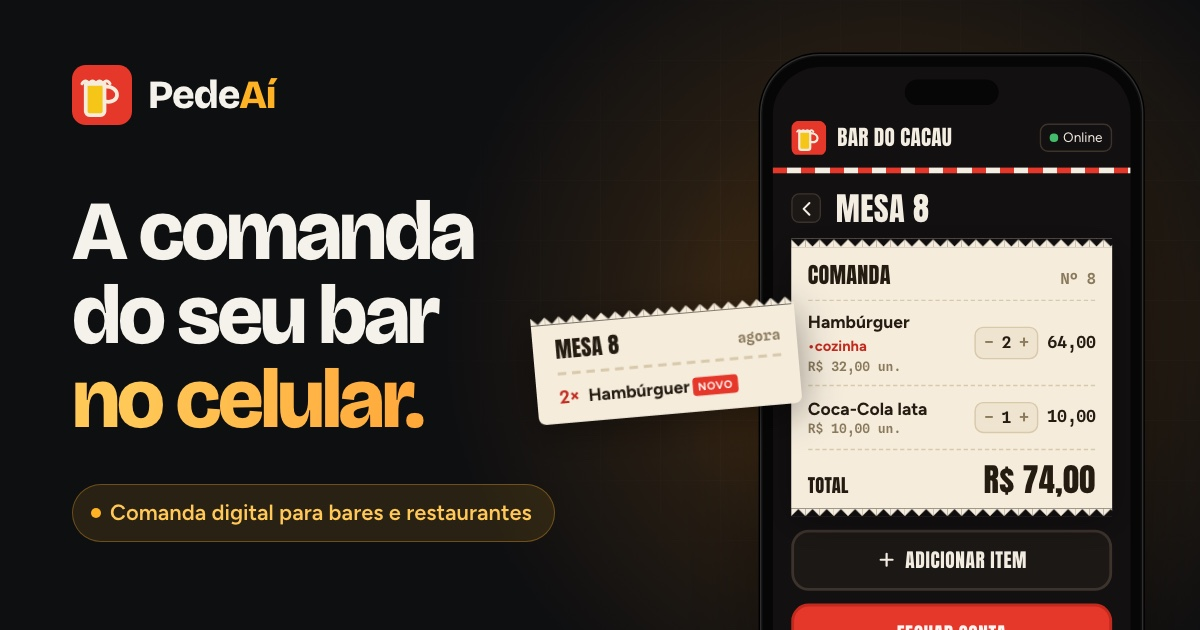
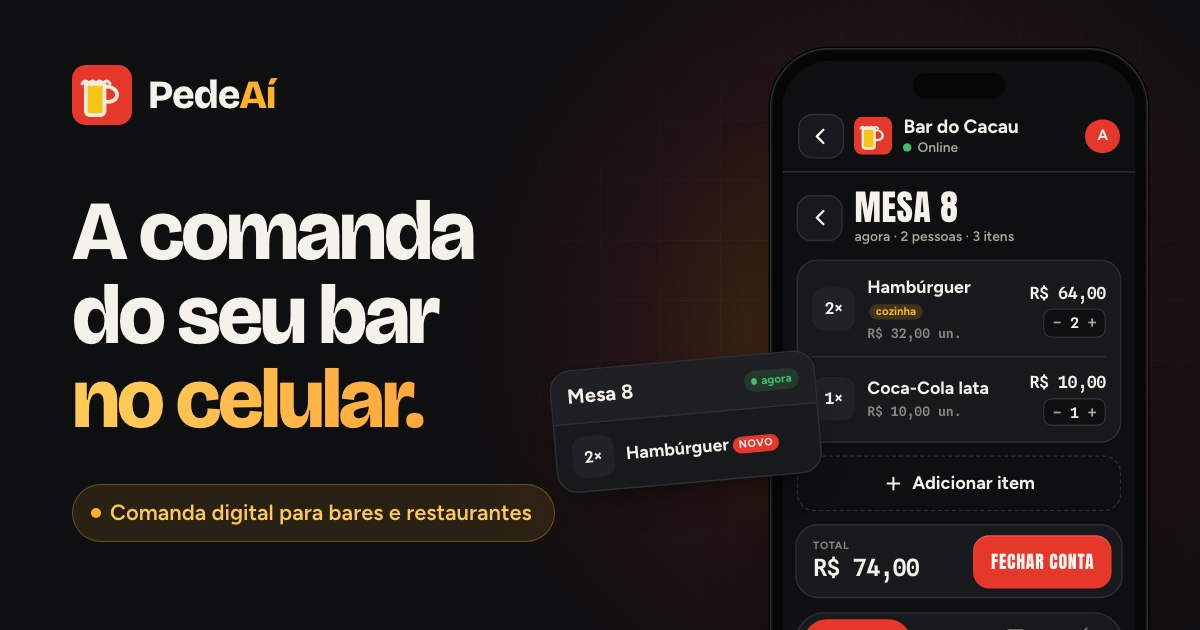
feat: sync landing mockups and share image with redesigned app
Telas de exemplo (hero, demonstração da Mesa 8, recursos) e og-image.jpg agora mostram a
interface da 4.17.6. Sem mudança de layout da página. Não publicado.

Changed region(s): [[0.4317, 0.1508, 0.9558, 1.0], [0.6783, 0.0603, 0.925, 0.0905]]

diff --git a/index.html b/index.html
@@ -54,9 +54,8 @@
   }
   /* ---------- tokens do aplicativo (iguais aos do app real; usados só nas telas de exemplo) ---------- */
   .app {
-    --a-ink:#121010; --a-ink2:#1c1815; --a-ink3:#29231e; --a-line:#3c332c; --a-bone:#f3ede2; --a-dim:#a89e8d;
-    --a-red:#e5372a; --a-red-deep:#c22a1e; --a-ppr:#f5ecdc; --a-ppr2:#efe4cf; --a-ppr-line:#d8c9ab; --a-ppr-ink:#241c11; --a-ppr-faint:#8a7a5c;
-    --a-yellow:#f5c518; --a-green:#43bd6b;
+    --a-ink:#0e0f11; --a-ink2:#17191c; --a-ink3:#1f2226; --a-line:#2c3036; --a-bone:#f5f2ea; --a-dim:#a9a69d; --a-faint:#8a877f;
+    --a-red:#e5372a; --a-red-deep:#c22a1e; --a-amber:#ffb224; --a-green:#43bd6b;
     --a-title:"Anton","Arial Narrow",Impact,sans-serif; --a-mono:"Spline Sans Mono",ui-monospace,"SF Mono",Menlo,monospace;
     font-family:var(--f-text); font-size:13px; line-height:1.3; color:var(--a-bone); text-align:left;
   }
@@ -145,89 +144,100 @@
   .chip-ic { width:44px; height:44px; border-radius:13px; display:grid; place-items:center; background:var(--amber-soft); border:1px solid var(--amber-line); color:var(--amber); flex:none; }
 
   /* =====================================================================
-     TELAS DO APLICATIVO — reproduzem a aparência real do PedeAí
+     TELAS DO APLICATIVO — reproduzem a interface real do PedeAí
      ===================================================================== */
-  .a-t { font-family:var(--a-title); font-weight:400; text-transform:uppercase; letter-spacing:.01em; line-height:1; }
-  .a-m { font-family:var(--a-mono); font-weight:600; letter-spacing:-.02em; }
+  .a-t { font-family:var(--a-title); font-weight:400; text-transform:uppercase; letter-spacing:.015em; line-height:1; }
+  .a-m { font-family:var(--a-mono); font-weight:600; letter-spacing:-.03em; }
+  .app small { display:block; }
+  .app i { font-style:normal; }
   .phone { width:270px; padding:8px; border-radius:42px; background:#060606; border:1px solid rgba(255,255,255,.17);
     box-shadow:0 50px 90px -36px rgba(0,0,0,.95), 0 0 0 1px #000, inset 0 0 0 1px rgba(255,255,255,.04); }
   .a-screen { position:relative; border-radius:34px; overflow:hidden; background:var(--a-ink); display:flex; flex-direction:column; }
   .a-screen::before { content:""; position:absolute; top:9px; left:50%; width:66px; height:18px; margin-left:-33px; border-radius:12px; background:#060606; z-index:3; }
-  .a-top { display:flex; align-items:center; gap:.6em; padding:2.9em 1em .7em; }
-  .a-top svg { width:1.9em; height:1.9em; }
-  .a-top .a-t { font-size:1.15em; margin-right:auto; }
-  .a-on { display:inline-flex; align-items:center; gap:.4em; font-size:.74em; padding:.3em .6em; border:1px solid var(--a-line); border-radius:.6em; color:var(--a-bone); }
-  .a-on::before { content:""; width:.6em; height:.6em; border-radius:50%; background:var(--a-green); }
-  .a-awn { height:4px; background:repeating-linear-gradient(90deg,var(--a-red) 0 10px,var(--a-bone) 10px 20px); }
-  .a-body { padding:1em 1em 1.1em; display:flex; flex-direction:column; gap:.75em; flex:1; }
-  .a-h { font-size:1.75em; display:flex; align-items:center; gap:.45em; }
-  .a-back { width:1.5em; height:1.5em; border:1px solid var(--a-line); border-radius:.4em; display:grid; place-items:center; background:var(--a-ink2); font-size:.62em; }
-  .a-back .ic { width:1em; height:1em; stroke-width:2.4; }
-  .a-sub { color:var(--a-dim); font-size:.86em; margin-top:-.45em; }
-  /* comanda de papel */
-  .a-paper { position:relative; background:var(--a-ppr); color:var(--a-ppr-ink); padding:.55em .9em .7em; margin-block:6px; filter:drop-shadow(0 6px 14px rgba(0,0,0,.35)); }
-  .a-paper::before, .a-paper::after { content:""; position:absolute; left:0; right:0; height:6px; background-size:10px 6px; background-repeat:repeat-x; }
-  .a-paper::before { top:-6px; background-image:linear-gradient(45deg,var(--a-ppr) 33%,transparent 34%),linear-gradient(-45deg,var(--a-ppr) 33%,transparent 34%); background-position:0 100%; }
-  .a-paper::after { bottom:-6px; background-image:linear-gradient(135deg,var(--a-ppr) 33%,transparent 34%),linear-gradient(-135deg,var(--a-ppr) 33%,transparent 34%); }
-  .a-ph { display:flex; align-items:baseline; justify-content:space-between; padding:.35em 0 .55em; border-bottom:1px dashed var(--a-ppr-line); }
-  .a-ph .a-t { font-size:1.2em; }
-  .a-ph .a-m { font-size:.82em; color:var(--a-ppr-faint); }
-  .a-it { display:flex; align-items:center; gap:.5em; padding:.6em 0; border-bottom:1px dashed var(--a-ppr-line); }
-  .a-it > span:first-child { flex:1; min-width:0; font-weight:700; font-size:.95em; }
-  .a-it small { display:block; font-family:var(--a-mono); font-weight:600; font-size:.74em; color:var(--a-ppr-faint); }
-  .a-it em { font-style:normal; color:var(--a-red-deep); font-size:.84em; }
-  .a-step { display:inline-flex; align-items:center; gap:.5em; padding:.28em .5em; border:1px solid var(--a-ppr-line); border-radius:.55em; background:var(--a-ppr2); font-family:var(--a-mono); font-weight:600; font-size:.86em; }
-  .a-step i { font-style:normal; color:var(--a-ppr-faint); }
-  .a-it .a-m { font-size:.9em; }
-  .a-tot { display:flex; align-items:baseline; justify-content:space-between; padding-top:.7em; }
-  .a-tot .a-t:first-child { font-size:1em; }
-  .a-tot .a-t:last-child { font-size:1.75em; }
-  /* botões */
-  .a-btn { display:flex; align-items:center; justify-content:center; gap:.45em; min-height:3.1em; border-radius:.9em; border:2px solid var(--a-line); background:var(--a-ink2); font-family:var(--a-title); text-transform:uppercase; letter-spacing:.03em; font-size:1.05em; }
-  .a-btn.red { background:var(--a-red); border-color:var(--a-red-deep); color:#fff5f2; }
-  .a-btn .ic { width:1.05em; height:1.05em; stroke-width:2.6; }
-  /* barra de abas */
-  .a-tabs { display:grid; grid-template-columns:repeat(4,1fr); border-top:1px solid var(--a-line); background:var(--a-ink2); padding:.55em .3em .8em; margin-top:auto; }
-  .a-tabs li { display:flex; flex-direction:column; align-items:center; gap:.3em; font-size:.62em; font-weight:700; letter-spacing:.06em; text-transform:uppercase; color:#6d6355; }
-  .a-tabs span { width:3.6em; height:2.5em; border-radius:.9em; display:grid; place-items:center; transition:background-color .3s; }
-  .a-tabs .ic { width:1.75em; height:1.75em; }
-  .a-tabs li.on { color:var(--a-bone); }
-  .a-tabs li.on span { background:var(--a-red); color:#fff5f2; }
+  .a-top { display:flex; align-items:center; gap:.6em; padding:2.9em .85em .7em; border-bottom:1px solid var(--a-line); }
+  .a-top > svg { width:2.1em; height:2.1em; flex:none; }
+  .a-chip { width:2.5em; height:2.5em; flex:none; border:1px solid var(--a-line); border-radius:.8em; display:grid; place-items:center; background:var(--a-ink2); }
+  .a-chip .ic { width:1.25em; height:1.25em; stroke-width:2.4; }
+  .a-id { flex:1; min-width:0; line-height:1.15; }
+  .a-id b { display:block; font-weight:800; font-size:1.06em; letter-spacing:-.01em; white-space:nowrap; overflow:hidden; text-overflow:ellipsis; }
+  .a-id small { display:flex; align-items:center; gap:.4em; font-size:.76em; font-weight:600; color:var(--a-dim); }
+  .a-id small::before { content:""; width:.6em; height:.6em; border-radius:50%; background:var(--a-green); }
+  .a-av { width:2.3em; height:2.3em; flex:none; border-radius:50%; background:var(--a-red); color:#fff5f2; display:grid; place-items:center; font-size:.82em; font-weight:800; }
+  .a-body { padding:.9em .8em 0; display:flex; flex-direction:column; gap:.7em; flex:1; }
+  .a-kick { font-size:.8em; font-weight:600; color:var(--a-dim); margin-bottom:-.45em; }
+  .a-h { font-size:1.95em; }
+  .a-metrics, .a-grid2, .a-pm { display:grid; gap:.45em; }
+  .a-metrics, .a-pm { grid-template-columns:repeat(3,1fr); } .a-grid2 { grid-template-columns:1fr 1fr; }
+  .a-metric { background:var(--a-ink2); border:1px solid var(--a-line); border-radius:.95em; padding:.6em .6em .65em; min-width:0; }
+  .a-metric small { font-size:.58em; font-weight:700; letter-spacing:.05em; text-transform:uppercase; color:var(--a-faint); white-space:nowrap; }
+  .a-metric b { display:block; margin-top:.3em; font-family:var(--a-mono); font-weight:600; font-size:.98em; letter-spacing:-.04em; white-space:nowrap; }
+  .a-metric.hot { border-color:rgba(255,178,36,.5); } .a-metric.hot b { color:var(--a-amber); }
+  .a-st { display:inline-flex; align-items:center; gap:.4em; flex:none; padding:.22em .6em; border-radius:999px; font-size:.64em; font-weight:700; background:rgba(67,189,107,.16); color:var(--a-green); white-space:nowrap; }
+  .a-st::before { content:""; width:.5em; height:.5em; border-radius:50%; background:currentColor; }
+  .a-st.warn { background:rgba(255,178,36,.18); color:var(--a-amber); }
   /* cartão de mesa */
-  .a-mesa { border-radius:1.1em; background:var(--a-ink2); border:2px solid var(--a-line); overflow:hidden; }
-  .a-mesa::before { content:""; display:block; height:6px; background:var(--a-red); }
-  .a-mesa > div { padding:.75em .9em .85em; }
-  .a-mesa .a-t { font-size:1.4em; }
-  .a-mesa small { display:block; color:var(--a-dim); font-size:.78em; margin:.35em 0 .5em; }
-  .a-mesa .a-m { font-size:1.2em; }
+  .a-mesa { background:var(--a-ink2); border:1px solid var(--a-line); border-radius:1.15em; padding:.85em .85em .8em; }
+  .a-mesa-top { display:flex; align-items:center; justify-content:space-between; gap:.4em; }
+  .a-mesa-top b { font-weight:800; font-size:1.08em; white-space:nowrap; }
+  .a-mesa > .a-m { display:block; margin-top:.7em; font-size:1.4em; }
+  .a-mesa > small { margin-top:.45em; font-size:.76em; font-weight:600; color:var(--a-dim); }
   .a-mesa.new { border-color:var(--a-red); }
-  /* comanda da cozinha */
-  .a-tk { position:relative; background:var(--a-ppr); color:var(--a-ppr-ink); border-radius:0 0 5px 5px; border-left:4px solid transparent; padding:.3em .9em .8em; margin-top:6px; filter:drop-shadow(0 6px 14px rgba(0,0,0,.4)); }
-  .a-tk::before { content:""; position:absolute; top:-6px; left:-4px; right:0; height:6px; background-size:10px 6px; background-repeat:repeat-x; background-position:0 100%;
-    background-image:linear-gradient(45deg,var(--a-ppr) 33%,transparent 34%),linear-gradient(-45deg,var(--a-ppr) 33%,transparent 34%); }
-  .a-tk.warn { border-left-color:var(--a-yellow); }
-  .a-tk-h { display:flex; align-items:baseline; justify-content:space-between; padding:.45em 0 .5em; border-bottom:2px dashed var(--a-ppr-line); }
-  .a-tk-h .a-t { font-size:1.2em; }
-  .a-tk-h .a-m { font-size:.8em; color:var(--a-ppr-faint); }
-  .a-tk.warn .a-tk-h .a-m { color:var(--a-red-deep); }
-  .a-ki { display:flex; align-items:center; gap:.5em; padding-top:.65em; font-weight:700; font-size:.95em; }
-  .a-ki .a-m { color:var(--a-red-deep); }
-  .a-ki > span:nth-child(2) { flex:1; min-width:0; }
-  .a-ki small { display:block; font-size:.8em; color:var(--a-red-deep); }
-  .a-new { display:inline-block; vertical-align:middle; margin-left:.3em; background:var(--a-red); color:#fff5f2; font-size:.62em; font-weight:700; letter-spacing:.05em; padding:.2em .45em; border-radius:.35em; }
-  .a-mark { border:1.5px solid var(--a-ppr-line); background:var(--a-ppr2); border-radius:.6em; padding:.45em .65em; font-size:.74em; font-weight:700; letter-spacing:.04em; }
+  .a-pill { align-self:center; margin:auto 0 .1em; display:inline-flex; align-items:center; gap:.5em; padding:.85em 1.5em; border-radius:999px; background:var(--a-red); color:#fff5f2; font-family:var(--a-title); text-transform:uppercase; letter-spacing:.04em; font-size:1.02em; box-shadow:0 12px 22px -12px rgba(229,55,42,.9); }
+  .a-pill .ic { width:1.1em; height:1.1em; stroke-width:2.6; }
+  /* comanda */
+  .a-oh { display:flex; align-items:center; gap:.65em; }
+  .a-oh small { margin-top:.3em; font-size:.76em; font-weight:600; color:var(--a-dim); }
+  .a-list { background:var(--a-ink2); border:1px solid var(--a-line); border-radius:1.15em; padding:.1em .75em; }
+  .a-it { display:flex; align-items:center; gap:.65em; padding:.75em 0; border-bottom:1px solid var(--a-line); }
+  .a-it:last-child { border-bottom:0; }
+  .a-q { width:2.7em; height:2.7em; flex:none; border-radius:.8em; display:grid; place-items:center; background:var(--a-ink3); font-size:.88em; }
+  .a-it > div:nth-child(2) { flex:1; min-width:0; }
+  .a-it b { font-weight:700; font-size:.98em; line-height:1.2; }
+  .a-it small { margin-top:.15em; font-family:var(--a-mono); font-weight:600; font-size:.72em; color:var(--a-faint); }
+  .a-k { display:inline-block; margin-left:.2em; padding:.08em .55em; border-radius:999px; font-size:.64em; font-weight:700; background:rgba(255,178,36,.18); color:var(--a-amber); vertical-align:middle; }
+  .a-r { flex:none; text-align:right; }
+  .a-r .a-m { display:block; font-size:.92em; }
+  .a-step { display:inline-flex; align-items:center; gap:.6em; margin-top:.35em; padding:.22em .55em; border:1px solid var(--a-line); border-radius:.6em; background:var(--a-ink); font-family:var(--a-mono); font-weight:600; font-size:.8em; }
+  .a-step i { color:var(--a-dim); }
+  .a-add { display:flex; align-items:center; justify-content:center; gap:.5em; padding:.8em; border:1px dashed var(--a-line); border-radius:1em; font-weight:700; }
+  .a-add .ic { width:1.1em; height:1.1em; stroke-width:2.4; }
+  .a-pay { margin:.7em .7em 0; display:flex; align-items:center; gap:.6em; padding:.5em .5em .5em .9em; background:var(--a-ink2); border:1px solid var(--a-line); border-radius:1.25em; }
+  .a-pay > div { flex:1; }
+  .a-pay small { font-size:.58em; font-weight:700; letter-spacing:.06em; text-transform:uppercase; color:var(--a-faint); }
+  .a-pay b { display:block; font-family:var(--a-mono); font-weight:600; font-size:1.3em; letter-spacing:-.04em; white-space:nowrap; }
+  .a-btn { display:flex; align-items:center; justify-content:center; min-height:3em; padding:0 1em; border-radius:.9em; background:var(--a-red); color:#fff5f2; font-family:var(--a-title); text-transform:uppercase; letter-spacing:.04em; font-size:.98em; white-space:nowrap; box-shadow:inset 0 1px 0 rgba(255,255,255,.2); }
+  /* navegação */
+  .a-nav { display:flex; gap:.25em; margin:.7em .7em .8em; padding:.35em; border:1px solid var(--a-line); border-radius:1.6em; background:var(--a-ink2); }
+  .a-nav li { flex:1; display:flex; flex-direction:column; align-items:center; justify-content:center; gap:.2em; padding:.5em 0; border-radius:2em; font-size:.56em; font-weight:700; letter-spacing:.03em; text-transform:uppercase; color:var(--a-faint); transition:background-color .3s, color .3s; }
+  .a-nav .ic { width:2em; height:2em; }
+  .a-nav li.on { flex:1.7; flex-direction:row; gap:.5em; font-size:.68em; background:var(--a-red); color:#fff5f2; }
+  .a-nav li.on .ic { width:1.6em; height:1.6em; }
+  /* cozinha */
+  .a-tk { background:var(--a-ink2); border:1px solid var(--a-line); border-radius:1.15em; overflow:hidden; box-shadow:0 14px 30px -18px rgba(0,0,0,.9); }
+  .a-tk.warn { border-color:rgba(255,178,36,.5); }
+  .a-tk-h { display:flex; align-items:center; justify-content:space-between; gap:.5em; padding:.7em .85em; border-bottom:1px solid var(--a-line); background:rgba(255,255,255,.03); }
+  .a-tk-h b { font-weight:800; font-size:1.12em; }
+  .a-ki { display:flex; align-items:center; gap:.65em; padding:.7em .85em; font-weight:700; font-size:.98em; }
+  .a-ki > span:nth-child(2) { flex:1; min-width:0; line-height:1.25; }
+  .a-ki small { font-size:.8em; font-weight:600; color:var(--a-amber); }
+  .a-new { display:inline-block; vertical-align:middle; margin-left:.35em; background:var(--a-red); color:#fff5f2; font-size:.6em; font-weight:700; letter-spacing:.05em; padding:.15em .55em; border-radius:999px; }
+  .a-mark { flex:none; border:1px solid var(--a-line); background:var(--a-ink3); border-radius:.75em; padding:.7em .8em; font-size:.74em; font-weight:700; white-space:nowrap; }
   /* fechar conta */
-  .a-sheet { background:var(--a-ink2); border:1px solid var(--a-line); border-radius:1.4em 1.4em 0 0; padding:.6em 1em 1em; display:flex; flex-direction:column; gap:.1em; flex:1; margin-top:.6em; }
+  .a-sheet { background:var(--a-ink2); border:1px solid var(--a-line); border-radius:1.5em 1.5em 0 0; padding:.6em .85em .9em; display:flex; flex-direction:column; flex:1; margin-top:.7em; }
   .a-sheet::before { content:""; align-self:center; width:2.6em; height:4px; border-radius:2px; background:var(--a-line); margin-bottom:.7em; }
   .a-sheet > .a-t { font-size:1.2em; padding-bottom:.7em; border-bottom:1px solid var(--a-line); }
-  .a-ln { display:flex; justify-content:space-between; gap:1em; padding:.6em 0; border-bottom:1px dashed var(--a-line); font-size:.92em; }
-  .a-ln .a-m { font-size:.95em; }
-  .a-ln.big { align-items:baseline; border-bottom-style:solid; }
-  .a-ln.big .a-t { font-size:1.8em; }
-  .a-lbl { font-size:.68em; font-weight:700; letter-spacing:.09em; text-transform:uppercase; color:var(--a-dim); margin:1em 0 .5em; }
-  .a-seg { display:grid; grid-template-columns:repeat(3,1fr); gap:3px; padding:3px; border:2px solid var(--a-line); border-radius:.9em; margin-bottom:.9em; }
-  .a-seg span { text-align:center; padding:.6em 0; border-radius:.6em; font-weight:700; font-size:.88em; color:var(--a-dim); }
-  .a-seg span.on { background:var(--a-red); color:#fff5f2; }
+  .a-hero { text-align:center; padding:.9em 0 .8em; }
+  .a-hero small { font-size:.62em; font-weight:700; letter-spacing:.09em; text-transform:uppercase; color:var(--a-faint); }
+  .a-hero b { display:block; margin-top:.15em; font-family:var(--a-mono); font-weight:600; font-size:2.5em; letter-spacing:-.05em; line-height:1.05; }
+  .a-hero span { display:block; margin-top:.3em; font-size:.8em; font-weight:600; color:var(--a-dim); }
+  .a-rows { border:1px solid var(--a-line); border-radius:1em; padding:.05em .8em; background:var(--a-ink); }
+  .a-ln { display:flex; justify-content:space-between; gap:1em; padding:.55em 0; border-bottom:1px dashed var(--a-line); font-size:.88em; font-weight:600; }
+  .a-ln:last-child { border-bottom:0; }
+  .a-lbl { font-size:.62em; font-weight:700; letter-spacing:.09em; text-transform:uppercase; color:var(--a-faint); margin:.95em 0 .5em; }
+  .a-pm span { display:flex; flex-direction:column; align-items:center; justify-content:center; gap:.35em; min-height:4.3em; border:1px solid var(--a-line); border-radius:1em; background:var(--a-ink); color:var(--a-dim); font-size:.86em; font-weight:700; }
+  .a-pm .ic { width:1.5em; height:1.5em; }
+  .a-pm span.on { border-color:var(--a-red); background:rgba(229,55,42,.16); color:var(--a-bone); box-shadow:0 0 0 1px var(--a-red) inset; }
+  .a-sheet .a-btn { margin-top:auto; min-height:3.3em; }
 
   /* ---------- hero ---------- */
   .hero { position:relative; overflow:hidden; padding:clamp(36px,5.5vw,76px) 0 clamp(44px,6vw,84px); }
@@ -249,7 +259,8 @@
   .stage .phone { position:absolute; left:0; right:0; top:0; margin-inline:auto; }
   .stage .fl { position:absolute; z-index:2; }
   .fl-tk { left:max(calc(50% - 301px), -70px); top:150px; width:186px; rotate:-4deg; }
-  .fl-mesa { left:min(calc(50% + 115px), calc(100% - 148px)); top:330px; width:164px; rotate:3deg; box-shadow:var(--sh); }
+  .fl-mesa { left:min(calc(50% + 115px), calc(100% - 148px)); top:438px; width:164px; rotate:3deg; }
+  .fl-mesa .a-mesa { box-shadow:var(--sh); }
   @media (max-width:640px) { .fl-tk { left:max(calc(50% - 301px), -16px); } }
   @media (max-width:940px) {
     .hero .wrap { grid-template-columns:1fr; }
@@ -364,7 +375,7 @@
   .bx-a h3, .bx-b h3 { font-size:clamp(24px,2.6vw,30px); }
   .bx-vis { margin-top:auto; padding-top:24px; }
   .tk-pair { position:relative; height:150px; }
-  .tk-pair .a-tk { position:absolute; width:48.5%; font-size:13.5px; }
+  .tk-pair .a-tk { position:absolute; width:49%; font-size:12.5px; }
   .tk-pair .a-tk:first-child { left:0; top:30px; rotate:-2deg; }
   .tk-pair .a-tk:last-child { right:0; top:8px; rotate:1.5deg; }
   .off { display:grid; gap:8px; }
@@ -640,37 +651,27 @@
         <!--phone-->
         <div class="phone app" aria-hidden="true">
           <div class="a-screen">
-            <div class="a-top"><svg><use href="#i-applogo"/></svg><span class="a-t">Bar do Cacau</span><span class="a-on">Online</span></div>
-            <div class="a-awn"></div>
+            <div class="a-top"><span class="a-chip"><svg class="ic" aria-hidden="true"><use href="#i-back"/></svg></span><svg aria-hidden="true"><use href="#i-applogo"/></svg><div class="a-id"><b>Bar do Cacau</b><small>Online</small></div><span class="a-av">A</span></div>
             <div class="a-body">
-              <div class="a-t a-h"><span class="a-back"><svg class="ic"><use href="#i-back"/></svg></span>Mesa 8</div>
-              <div class="a-paper">
-                <div class="a-ph"><span class="a-t">Comanda</span><span class="a-m">Nº 8</span></div>
-                <div class="a-it"><span>Hambúrguer <em>•cozinha</em><small>R$ 32,00 un.</small></span><span class="a-step"><i>−</i>2<i>+</i></span><span class="a-m">64,00</span></div>
-                <div class="a-it"><span>Coca-Cola lata<small>R$ 10,00 un.</small></span><span class="a-step"><i>−</i>1<i>+</i></span><span class="a-m">10,00</span></div>
-                <div class="a-tot"><span class="a-t">Total</span><span class="a-t">R$ 74,00</span></div>
+              <div class="a-oh"><span class="a-chip"><svg class="ic" aria-hidden="true"><use href="#i-back"/></svg></span><div><div class="a-t a-h">Mesa 8</div><small>agora · 2 pessoas · 3 itens</small></div></div>
+              <div class="a-list">
+                <div class="a-it"><span class="a-q a-m">2×</span><div><b>Hambúrguer <i class="a-k">cozinha</i></b><small>R$ 32,00 un.</small></div><div class="a-r"><span class="a-m">R$ 64,00</span><span class="a-step"><i>−</i>2<i>+</i></span></div></div>
+                <div class="a-it"><span class="a-q a-m">1×</span><div><b>Coca-Cola lata</b><small>R$ 10,00 un.</small></div><div class="a-r"><span class="a-m">R$ 10,00</span><span class="a-step"><i>−</i>1<i>+</i></span></div></div>
               </div>
-              <div class="a-btn"><svg class="ic"><use href="#i-plus"/></svg>Adicionar item</div>
-              <div class="a-btn red">Fechar conta</div>
+              <div class="a-add"><svg class="ic" aria-hidden="true"><use href="#i-plus"/></svg>Adicionar item</div>
             </div>
-            <ul class="a-tabs">
-              <li class="on"><span><svg class="ic"><use href="#i-bill"/></svg></span>Mesas</li>
-              <li><span><svg class="ic"><use href="#i-pan"/></svg></span>Cozinha</li>
-              <li><span><svg class="ic"><use href="#i-cash"/></svg></span>Caixa</li>
-              <li><span><svg class="ic"><use href="#i-wrench"/></svg></span>Ajustes</li>
+            <div class="a-pay"><div><small>Total</small><b>R$ 74,00</b></div><span class="a-btn">Fechar conta</span></div>
+            <ul class="a-nav a-tabs" aria-hidden="true">
+              <li class="on"><svg class="ic"><use href="#i-bill"/></svg>Mesas</li>
+              <li><svg class="ic"><use href="#i-pan"/></svg>Cozinha</li>
+              <li><svg class="ic"><use href="#i-cash"/></svg>Caixa</li>
+              <li><svg class="ic"><use href="#i-wrench"/></svg>Ajustes</li>
             </ul>
           </div>
         </div>
         <!--/phone-->
-        <div class="fl fl-tk app" aria-hidden="true">
-          <div class="a-tk">
-            <div class="a-tk-h"><span class="a-t">Mesa 8</span><span class="a-m">agora</span></div>
-            <div class="a-ki"><span class="a-m">2×</span><span>Hambúrguer<span class="a-new">NOVO</span></span></div>
-          </div>
-        </div>
-        <div class="fl fl-mesa app a-mesa" aria-hidden="true">
-          <div><span class="a-t">Mesa 3</span><small>Ana · 21 min · 4 pes.</small><span class="a-m">R$ 49,00</span></div>
-        </div>
+        <div class="fl fl-tk app" aria-hidden="true"><div class="a-tk"><div class="a-tk-h"><b>Mesa 8</b><span class="a-st">agora</span></div><div class="a-ki"><span class="a-q a-m">2×</span><span>Hambúrguer<span class="a-new">NOVO</span></span></div></div></div>
+        <div class="fl fl-mesa app" aria-hidden="true"><div class="a-mesa"><div class="a-mesa-top"><b>Mesa 3</b><span class="a-st">aberta</span></div><span class="a-m">R$ 49,00</span><small>21 min · 4 pessoas</small></div></div>
       </div>
     </div>
   </div>
@@ -776,16 +777,7 @@
         <h3>O pedido chega na cozinha na hora.</h3>
         <p>Sem gritar e sem levar papel. A cozinha vê o que preparar e há quanto tempo o cliente espera.</p>
         <div class="bx-vis" aria-hidden="true">
-          <div class="tk-pair app">
-            <div class="a-tk warn">
-              <div class="a-tk-h"><span class="a-t">Mesa 3</span><span class="a-m">18 min</span></div>
-              <div class="a-ki"><span class="a-m">1×</span><span>Batata frita<small>✎ sem sal</small></span><span class="a-mark">MARCAR</span></div>
-            </div>
-            <div class="a-tk">
-              <div class="a-tk-h"><span class="a-t">Mesa 8</span><span class="a-m">agora</span></div>
-              <div class="a-ki"><span class="a-m">2×</span><span>Hambúrguer<span class="a-new">NOVO</span></span><span class="a-mark">MARCAR</span></div>
-            </div>
-          </div>
+          <div class="tk-pair app"><div class="a-tk warn"><div class="a-tk-h"><b>Mesa 3</b><span class="a-st warn">18 min</span></div><div class="a-ki"><span class="a-q a-m">1×</span><span>Batata frita<small>✎ sem sal</small></span><span class="a-mark">Marcar pronto</span></div></div><div class="a-tk"><div class="a-tk-h"><b>Mesa 8</b><span class="a-st">agora</span></div><div class="a-ki"><span class="a-q a-m">2×</span><span>Hambúrguer<span class="a-new">NOVO</span></span><span class="a-mark">Marcar pronto</span></div></div></div>
         </div>
       </article>
       <article class="bx bx-b rv" style="--d:1">
@@ -811,10 +803,7 @@
         <h3>Controle de mesas</h3>
         <p>Veja as mesas abertas e quanto cada uma já consumiu.</p>
         <div class="bx-vis" aria-hidden="true">
-          <div class="mesas2">
-            <div class="app a-mesa"><div><span class="a-t">Mesa 3</span><small>21 min · 4 pes.</small><span class="a-m">R$ 49,00</span></div></div>
-            <div class="app a-mesa"><div><span class="a-t">Mesa 8</span><small>6 min · 2 pes.</small><span class="a-m">R$ 74,00</span></div></div>
-          </div>
+          <div class="mesas2"><div class="app a-mesa"><div class="a-mesa-top"><b>Mesa 3</b><span class="a-st">aberta</span></div><span class="a-m">R$ 49,00</span><small>21 min · 4 pes.</small></div><div class="app a-mesa"><div class="a-mesa-top"><b>Mesa 8</b><span class="a-st">aberta</span></div><span class="a-m">R$ 74,00</span><small>6 min · 2 pes.</small></div></div>
         </div>
       </article>
       <article class="bx bx-c rv" style="--d:2">
@@ -860,67 +849,58 @@
       <p class="ddesc" id="ddesc" aria-hidden="true">O garçom abre a Mesa 8.</p>
       <div class="phone app dphone">
         <div class="a-screen">
-          <div class="a-top"><svg aria-hidden="true"><use href="#i-applogo"/></svg><span class="a-t">Bar do Cacau</span><span class="a-on">Online</span></div>
-          <div class="a-awn"></div>
+          <div class="a-top"><span class="a-chip"><svg class="ic" aria-hidden="true"><use href="#i-back"/></svg></span><svg aria-hidden="true"><use href="#i-applogo"/></svg><div class="a-id"><b>Bar do Cacau</b><small>Online</small></div><span class="a-av">A</span></div>
           <div class="dpanels">
             <div class="dpanel on" role="tabpanel" id="dp0" aria-labelledby="dt0">
               <div class="a-body">
-                <div class="a-t a-h">Mesas abertas</div>
-                <div class="a-mesa"><div><span class="a-t">Mesa 3</span><small>Ana · 21 min · 4 pes.</small><span class="a-m">R$ 49,00</span></div></div>
-                <div class="a-mesa new"><div><span class="a-t">Mesa 8</span><small>Você · agora · 2 pes.</small><span class="a-m">R$ 0,00</span></div></div>
-                <div class="a-btn red" style="margin-top:auto"><svg class="ic" aria-hidden="true"><use href="#i-plus"/></svg>Abrir mesa</div>
+                <div class="a-kick">2 mesas abertas</div>
+                <div class="a-t a-h">Mesas</div>
+                <div class="a-metrics"><div class="a-metric"><small>Em aberto</small><b>R$ 49,00</b></div><div class="a-metric"><small>Na cozinha</small><b>1</b></div><div class="a-metric"><small>No caixa</small><b>0</b></div></div>
+                <div class="a-grid2"><div class="a-mesa"><div class="a-mesa-top"><b>Mesa 3</b><span class="a-st">aberta</span></div><span class="a-m">R$ 49,00</span><small>21 min · 4 pes.</small></div><div class="a-mesa new"><div class="a-mesa-top"><b>Mesa 8</b><span class="a-st">aberta</span></div><span class="a-m">R$ 0,00</span><small>agora · 2 pes.</small></div></div>
+                <div class="a-pill"><svg class="ic" aria-hidden="true"><use href="#i-plus"/></svg>Abrir mesa</div>
               </div>
             </div>
             <div class="dpanel" role="tabpanel" id="dp1" aria-labelledby="dt1">
               <div class="a-body">
-                <div class="a-t a-h"><span class="a-back"><svg class="ic" aria-hidden="true"><use href="#i-back"/></svg></span>Mesa 8</div>
-                <div class="a-paper">
-                  <div class="a-ph"><span class="a-t">Comanda</span><span class="a-m">Nº 8</span></div>
-                  <div class="a-it"><span>Hambúrguer <em>•cozinha</em><small>R$ 32,00 un.</small></span><span class="a-step"><i>−</i>2<i>+</i></span><span class="a-m">64,00</span></div>
-                  <div class="a-it"><span>Coca-Cola lata<small>R$ 10,00 un.</small></span><span class="a-step"><i>−</i>1<i>+</i></span><span class="a-m">10,00</span></div>
-                  <div class="a-tot"><span class="a-t">Total</span><span class="a-t">R$ 74,00</span></div>
-                </div>
-                <div class="a-btn"><svg class="ic" aria-hidden="true"><use href="#i-plus"/></svg>Adicionar item</div>
-                <div class="a-btn red">Fechar conta</div>
+              <div class="a-oh"><span class="a-chip"><svg class="ic" aria-hidden="true"><use href="#i-back"/></svg></span><div><div class="a-t a-h">Mesa 8</div><small>agora · 2 pessoas · 3 itens</small></div></div>
+              <div class="a-list">
+                <div class="a-it"><span class="a-q a-m">2×</span><div><b>Hambúrguer <i class="a-k">cozinha</i></b><small>R$ 32,00 un.</small></div><div class="a-r"><span class="a-m">R$ 64,00</span><span class="a-step"><i>−</i>2<i>+</i></span></div></div>
+                <div class="a-it"><span class="a-q a-m">1×</span><div><b>Coca-Cola lata</b><small>R$ 10,00 un.</small></div><div class="a-r"><span class="a-m">R$ 10,00</span><span class="a-step"><i>−</i>1<i>+</i></span></div></div>
               </div>
+              <div class="a-add"><svg class="ic" aria-hidden="true"><use href="#i-plus"/></svg>Adicionar item</div>
+            </div>
+            <div class="a-pay"><div><small>Total</small><b>R$ 74,00</b></div><span class="a-btn">Fechar conta</span></div>
             </div>
             <div class="dpanel" role="tabpanel" id="dp2" aria-labelledby="dt2">
               <div class="a-body">
+                <div class="a-kick">Pedidos em preparo</div>
                 <div class="a-t a-h">Cozinha</div>
-                <p class="a-sub">2 item(ns) a preparar · 1 novo(s)</p>
-                <div class="a-tk">
-                  <div class="a-tk-h"><span class="a-t">Mesa 8</span><span class="a-m">agora</span></div>
-                  <div class="a-ki"><span class="a-m">2×</span><span>Hambúrguer<span class="a-new">NOVO</span></span><span class="a-mark">MARCAR</span></div>
-                </div>
-                <div class="a-tk warn">
-                  <div class="a-tk-h"><span class="a-t">Mesa 3</span><span class="a-m">18 min</span></div>
-                  <div class="a-ki"><span class="a-m">1×</span><span>Batata frita<small>✎ sem sal</small></span><span class="a-mark">MARCAR</span></div>
-                </div>
+                <div class="a-metrics"><div class="a-metric"><small>A preparar</small><b>3</b></div><div class="a-metric hot"><small>Novos</small><b>2</b></div><div class="a-metric"><small>Mesas</small><b>2</b></div></div>
+                <div class="a-tk"><div class="a-tk-h"><b>Mesa 8</b><span class="a-st">agora</span></div><div class="a-ki"><span class="a-q a-m">2×</span><span>Hambúrguer<span class="a-new">NOVO</span></span><span class="a-mark">Marcar pronto</span></div></div>
+                <div class="a-tk warn"><div class="a-tk-h"><b>Mesa 3</b><span class="a-st warn">18 min</span></div><div class="a-ki"><span class="a-q a-m">1×</span><span>Batata frita<small>✎ sem sal</small></span><span class="a-mark">Marcar pronto</span></div></div>
               </div>
             </div>
             <div class="dpanel" role="tabpanel" id="dp3" aria-labelledby="dt3">
               <div class="a-sheet">
                 <span class="a-t">Fechar conta · Mesa 8</span>
-                <div class="a-ln"><span>2× Hambúrguer</span><span class="a-m">R$ 64,00</span></div>
-                <div class="a-ln"><span>1× Coca-Cola lata</span><span class="a-m">R$ 10,00</span></div>
-                <div class="a-ln big"><span>Total</span><span class="a-t">R$ 74,00</span></div>
-                <div class="a-ln"><span>Por pessoa (2)</span><span class="a-m">R$ 37,00</span></div>
+                <div class="a-hero"><small>Total</small><b>R$ 74,00</b><span>R$ 37,00 por pessoa (2)</span></div>
+                <div class="a-rows"><div class="a-ln"><span>2× Hambúrguer</span><span class="a-m">R$ 64,00</span></div><div class="a-ln"><span>1× Coca-Cola lata</span><span class="a-m">R$ 10,00</span></div></div>
                 <div class="a-lbl">Como vai pagar</div>
-                <div class="a-seg"><span>Dinheiro</span><span>Cartão</span><span class="on">Pix</span></div>
-                <div class="a-btn red" style="margin-top:auto">Confirmar pagamento</div>
+                <div class="a-pm"><span><svg class="ic" aria-hidden="true"><use href="#i-cash"/></svg>Dinheiro</span><span><svg class="ic" aria-hidden="true"><use href="#i-bill"/></svg>Cartão</span><span class="on"><svg class="ic" aria-hidden="true"><use href="#i-pix"/></svg>Pix</span></div>
+                <div class="a-btn">Finalizar conta</div>
               </div>
             </div>
           </div>
-          <ul class="a-tabs" aria-hidden="true">
-            <li class="on"><span><svg class="ic"><use href="#i-bill"/></svg></span>Mesas</li>
-            <li><span><svg class="ic"><use href="#i-pan"/></svg></span>Cozinha</li>
-            <li><span><svg class="ic"><use href="#i-cash"/></svg></span>Caixa</li>
-            <li><span><svg class="ic"><use href="#i-wrench"/></svg></span>Ajustes</li>
-          </ul>
+          <ul class="a-nav a-tabs" aria-hidden="true">
+            <li class="on"><svg class="ic"><use href="#i-bill"/></svg>Mesas</li>
+            <li><svg class="ic"><use href="#i-pan"/></svg>Cozinha</li>
+            <li><svg class="ic"><use href="#i-cash"/></svg>Caixa</li>
+            <li><svg class="ic"><use href="#i-wrench"/></svg>Ajustes</li>
+            </ul>
         </div>
       </div>
     </div>
-    <p class="note">Telas de exemplo, com dados fictícios.</p>
+    <p class="note">Telas do aplicativo, com dados de exemplo.</p>
 
     <div class="video-row rv">
       <div>
